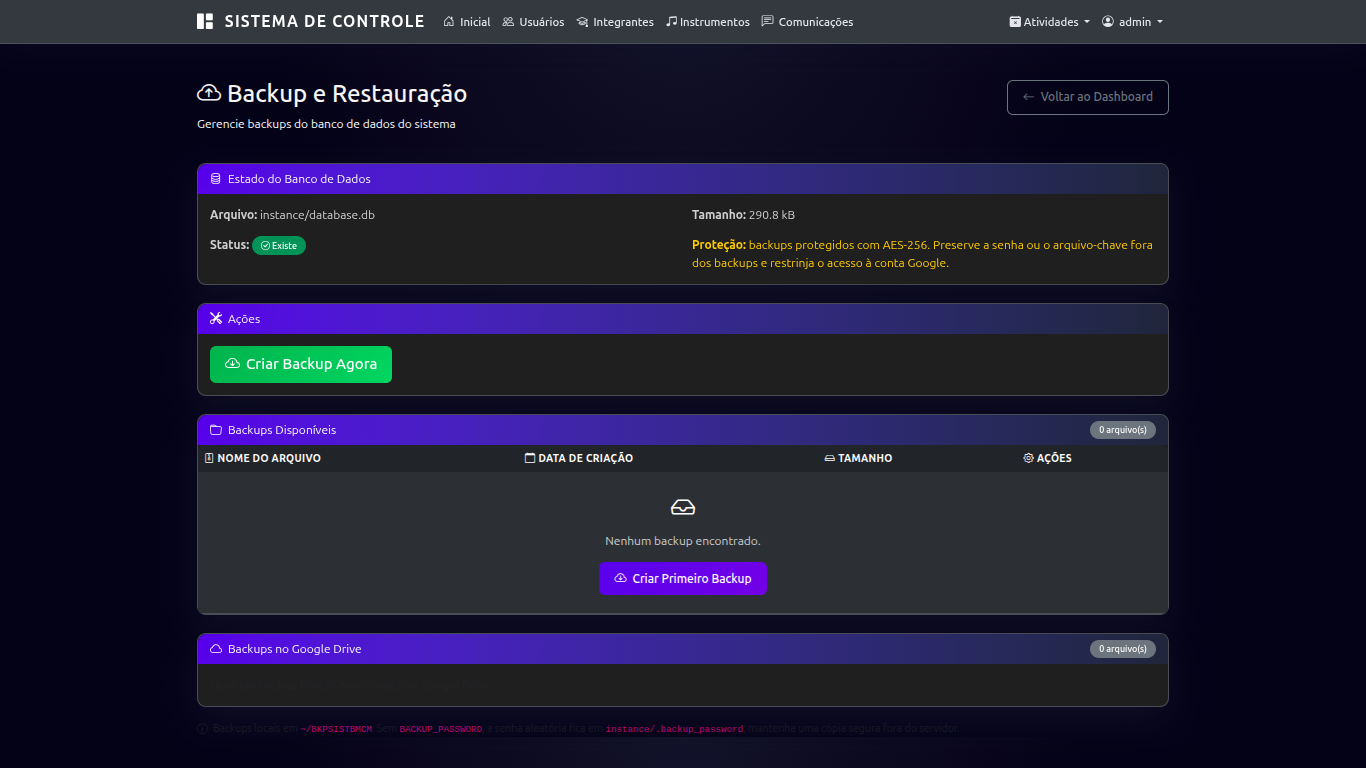
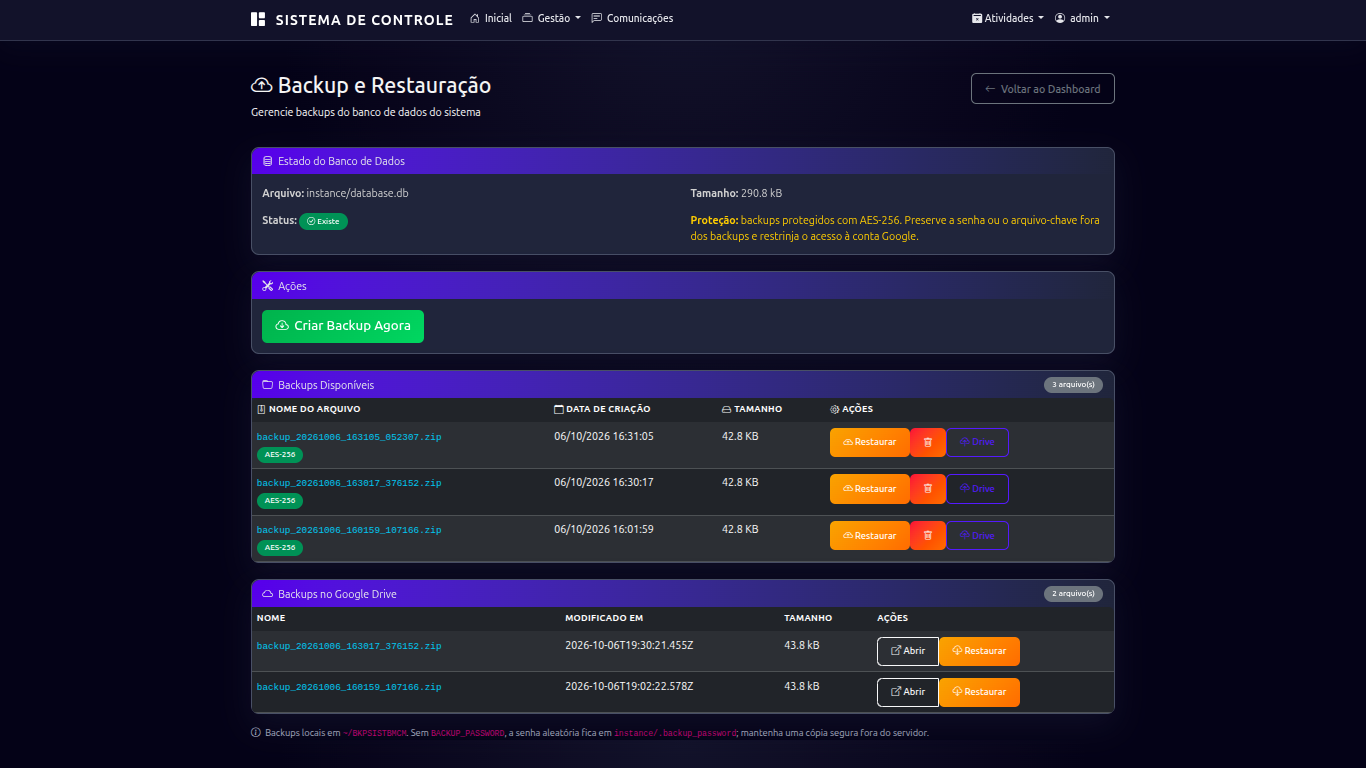
feat: Inclusão de Imagem da tela de configuração de tema e tamanho de fonte, acessabilidade no README.md

diff --git a/config.py b/config.py
@@ -7,7 +7,7 @@ load_dotenv()
 # Controle de versão incremental: principal.atualização.contagem.
 APP_VERSION_MAJOR = 1
 APP_VERSION_UPDATE = 4
-APP_VERSION_COUNT = 29
+APP_VERSION_COUNT = 30
 APP_VERSION = f"{APP_VERSION_MAJOR}.{APP_VERSION_UPDATE}.{APP_VERSION_COUNT}"
 APP_VERSION_COMPONENT_LIMIT = 99
 

diff --git a/README.md b/README.md
@@ -191,7 +191,8 @@ As seguintes melhorias já foram incorporadas ao sistema existente:
 * documentação do JavaScript usado nas páginas, incluindo o fluxo de busca de CEP local com fallback para ViaCEP;
 * restauração administrativa de backups criptografados diretamente do Google Drive, preservando cópia de segurança local antes da substituição do banco;
 * envio automático do backup ao Google Drive ao criar uma cópia local, quando a integração estiver autorizada;
-* validação manual do fluxo completo de backup na nuvem, incluindo restauração e cópia de segurança do banco atual.
+* validação manual do fluxo completo de backup na nuvem, incluindo restauração e cópia de segurança do banco atual;
+* inclusão da captura da tela de preferências de acessibilidade nas evidências do projeto.
 
 O OAuth solicita os escopos necessários para Gmail, Calendar e Drive. Gmail, Calendar e Drive estão conectados a operações do sistema. O envio de e-mail foi testado com sucesso usando uma conta Google real; Calendar e operações de backup no Drive foram validados com a conta configurada no ambiente. Em 06/10/2026, o fluxo de backup na nuvem foi validado manualmente, incluindo criação local, envio automático, restauração e cópia de segurança do banco atual. O WhatsApp não está integrado ao BMCM.
 
@@ -213,7 +214,7 @@ Nesse formato:
 
 A versão oficial fica centralizada em `config.py`, nas constantes `APP_VERSION_MAJOR`, `APP_VERSION_UPDATE` e `APP_VERSION_COUNT`. Cada correção, rotina ou formulário concluído incrementa o terceiro componente a partir da versão atual. Ao passar de `99`, a contagem volta a `0` e o segundo componente é incrementado; se ele também passar de `99`, volta a `0` e o primeiro componente é incrementado. A função `proxima_versao()` formaliza essa regra. Mudanças estruturais maiores podem incrementar o primeiro componente.
 
-Versão atual: **1.4.29**.
+Versão atual: **1.4.30**.
 
 A versão é exibida no login, na área de créditos e nas configurações administrativas. A contagem representa o controle acumulado de alterações do desenvolvimento e não é alterada automaticamente pelo uso do sistema em produção.
 
@@ -699,6 +700,8 @@ Entre os recursos e melhorias considerados estão:
 As opções de tema usam paletas controladas para preservar contraste e legibilidade. A interface deve continuar utilizável em diferentes tamanhos de tela e por teclado, sem depender de combinações de cores definidas livremente.
 
 O objetivo é permitir que o sistema seja utilizado por pessoas com diferentes níveis de familiaridade com tecnologia.
+
+![Tela de preferências de acessibilidade com opções individuais de tema e tamanho do texto](./assets/imgs/tela-acessabilidade.png)
 
 ## Análise opcional de presença e indicadores de dados
 
